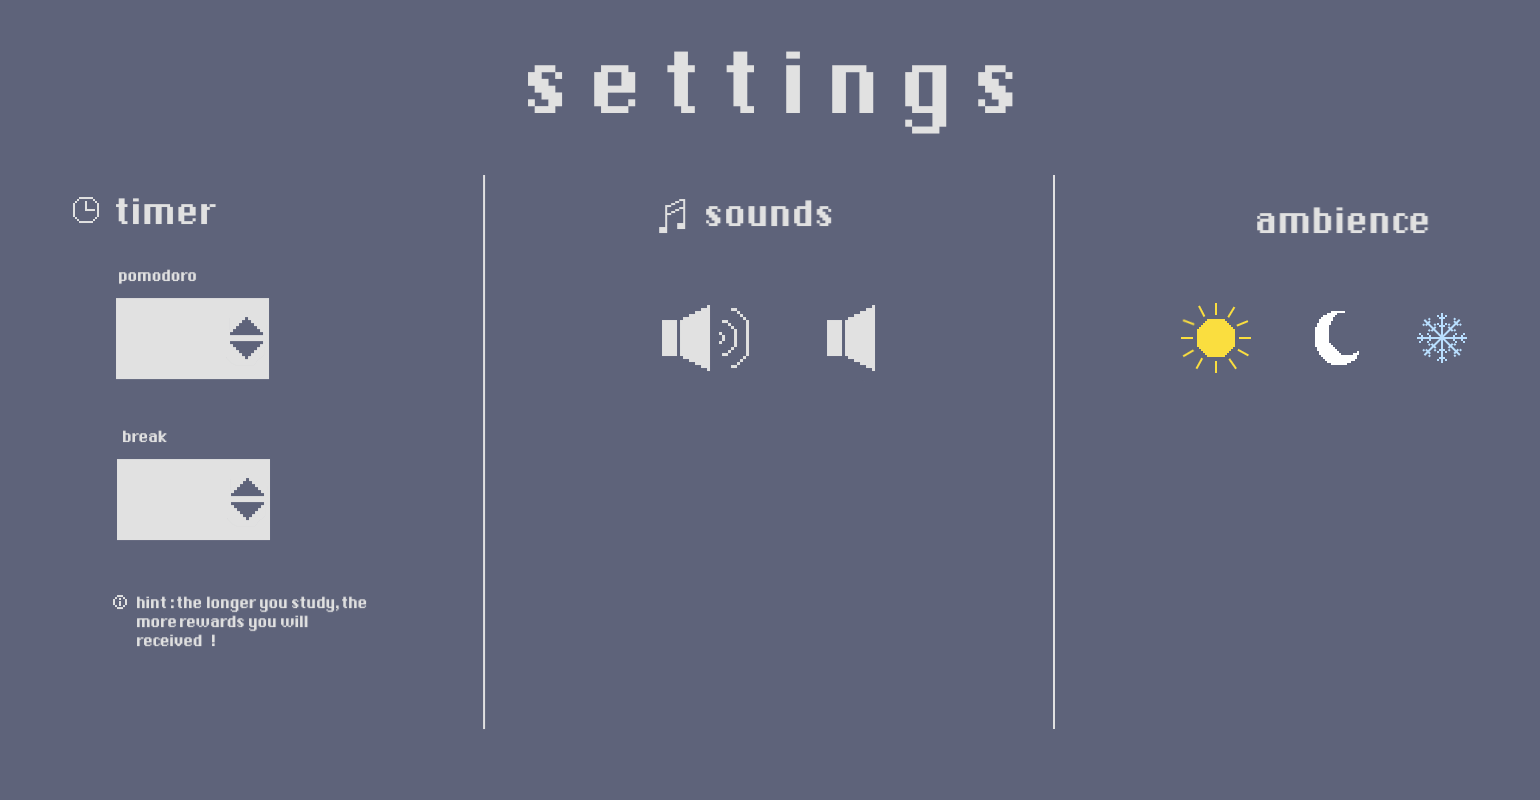
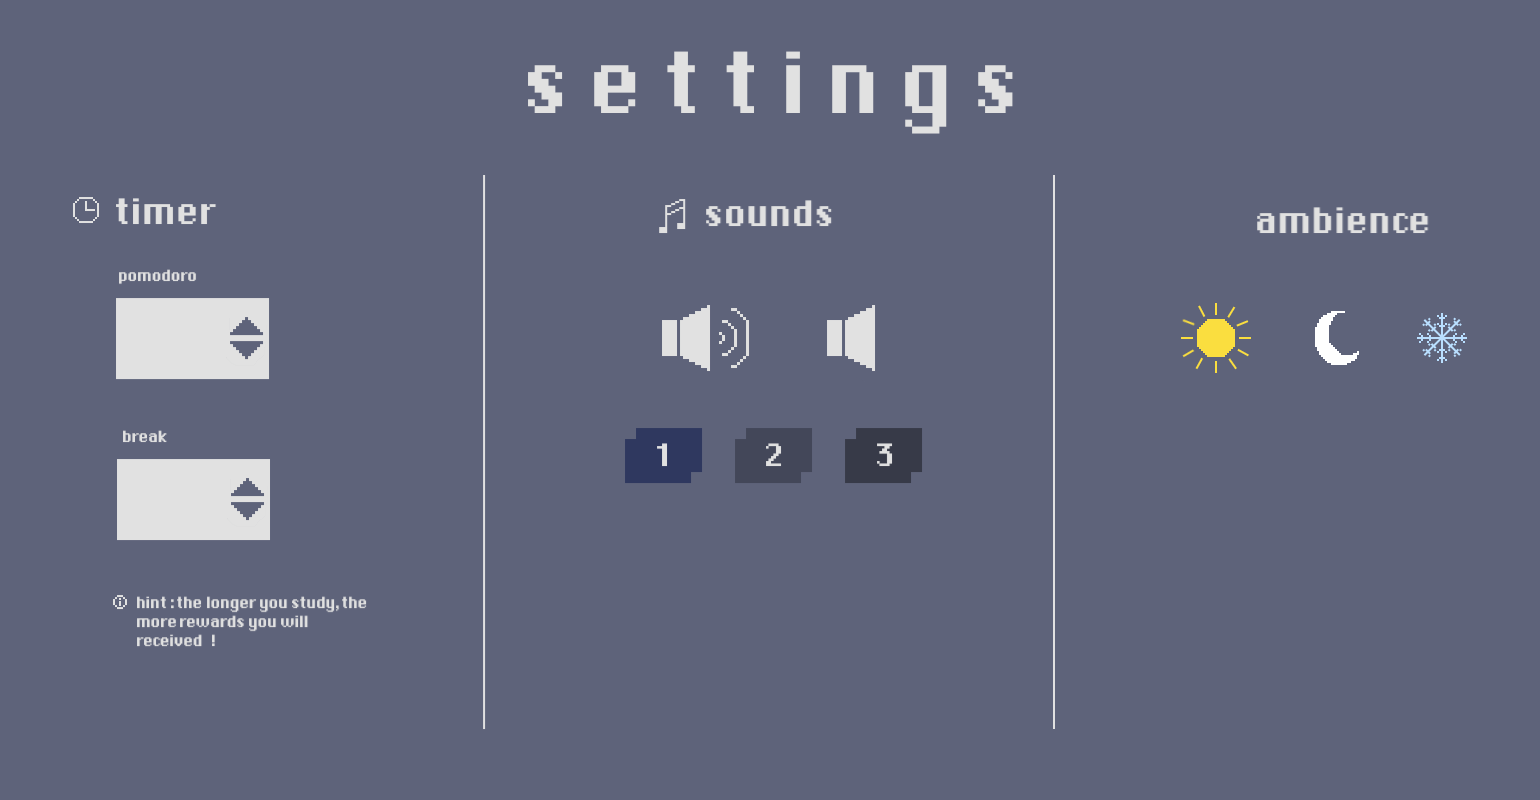
'add-bg-to-shop-page'

Changed region(s): [[0.4052, 0.5312, 0.6234, 0.625]]

diff --git a/main.py b/main.py
@@ -85,6 +85,10 @@ shop_back = BUTTON(345, 300, 100,80)
 water_plant = BUTTON(120, 400, 120, 50)
 fertilizer = BUTTON(120, 570, 120, 50)
 
+#music
+music_1 = BUTTON(600, 300, 80, 70)
+music_2 = BUTTON(700, 300, 80, 70)
+music_3 = BUTTON(800, 300, 80, 70)
 
 #user input for todo list
 user_input = ""
@@ -583,7 +587,7 @@ def screen_shop():
                 if fertilizer.check_for_input(pygame.mouse.get_pos()):
                     fertilize.trigger()  # Record the start time
 
-        # Display the background image
+        bg('design/plant1.png')
         bg('Design/shop-page.png')
         # Check if we need to show the watering can image
         watering_can.show()
